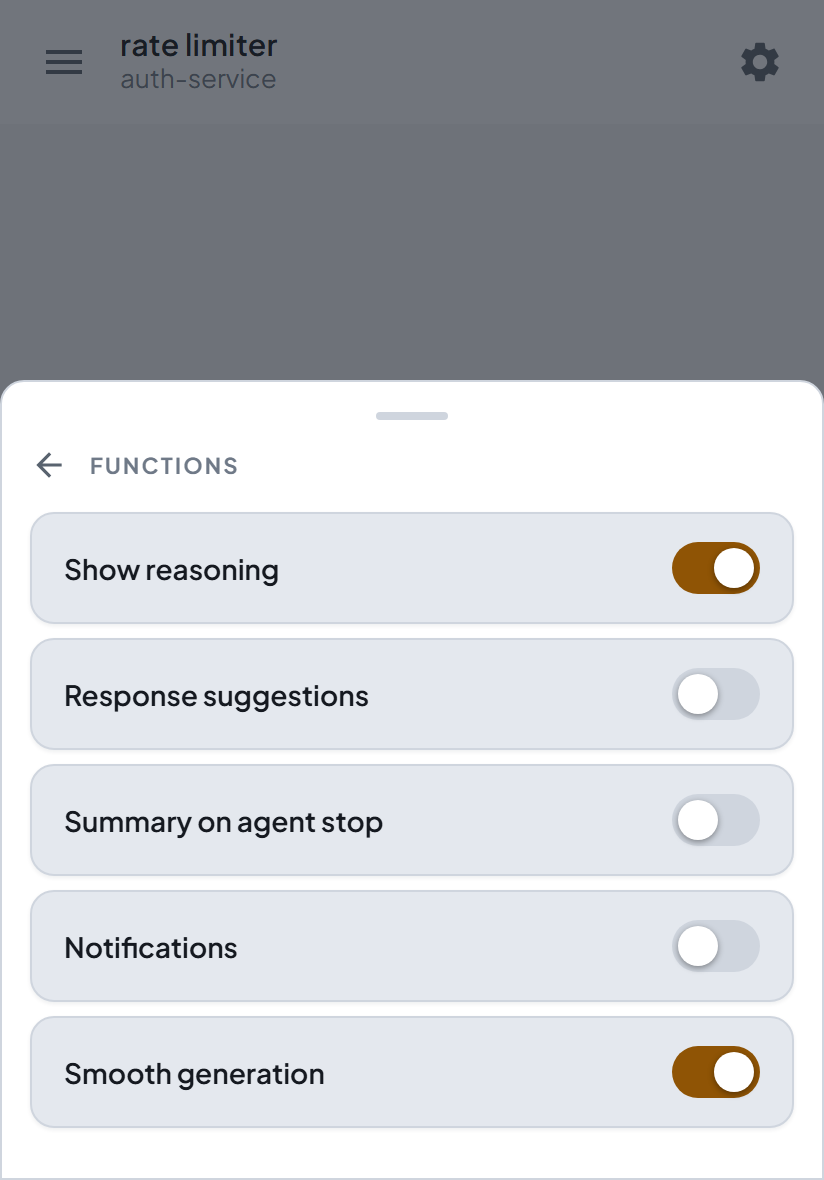
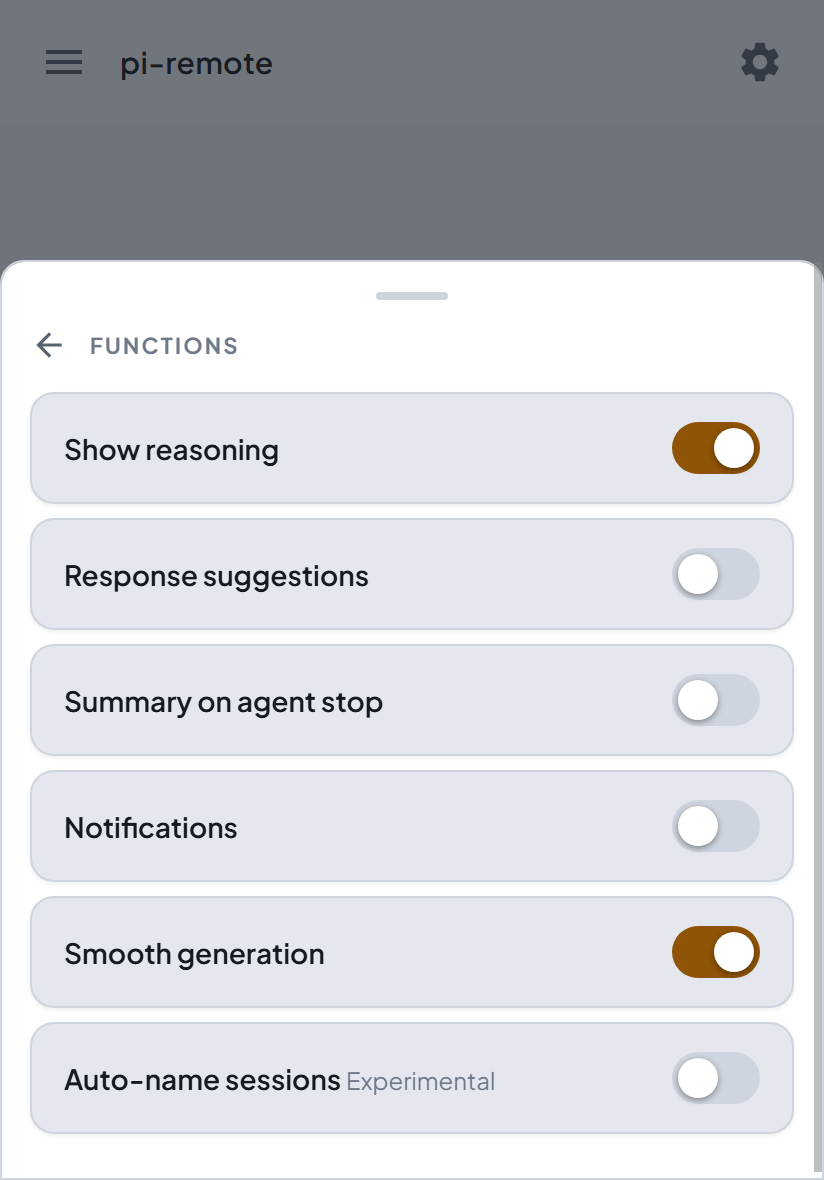
docs: refresh the Functions screenshot (six switches)

diff --git a/README.md b/README.md
@@ -403,7 +403,7 @@ tokens) in pi's `models.json`, applied on the next restart.
 
 <p align="center">
   <img src="docs/functions.png" width="300"
-       alt="The Functions page: five switches for show reasoning, response suggestions, summary on agent stop, notifications, and smooth generation">
+       alt="The Functions page: six switches for show reasoning, response suggestions, summary on agent stop, notifications, smooth generation, and auto-naming sessions">
 </p>
 
 ## Security
